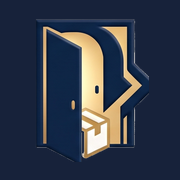
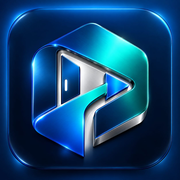
Segundo kit de marca: reemplazo completo a identidad azul/turquesa
Reemplaza el kit navy/dorado (ícono puerta+caja, sello) por el nuevo
kit azul/turquesa/plata que trajo el usuario: ícono hexagonal, lockup
"Puertayá — De la portería a tu puerta." y paleta completa (--brand,
--gold y derivados migrados en index.css, ambos modos claro/oscuro).

El lockup transparente del kit solo existe en versión clara; en oscuro
Logo compone el ícono oscuro + el nombre en texto (sugerencia del
propio LEEME del kit), en vez de mostrar el lockup claro ilegible
sobre fondo oscuro.

Ícono maskable regenerado desde el nuevo icono-dark sobre el fondo
oscuro de marca. Piezas de marketing (uniformes, 3D) guardadas en
docs/marca-v2/ como referencia, no se usan en la UI.

diff --git a/frontend/src/puertaya-brand/Logo.jsx b/frontend/src/puertaya-brand/Logo.jsx
@@ -1,30 +1,33 @@
 import React, { useEffect, useState } from "react";
 
-import selloLight from "./logos/sello/puertaya-sello-light.png";
-import selloDark from "./logos/sello/puertaya-sello-dark.png";
 import iconoLight from "./logos/icono/puertaya-icono-light.png";
 import iconoDark from "./logos/icono/puertaya-icono-dark.png";
+import lockupLight from "./logos/lockup/puertaya-lockup-light.png";
 
 const SOURCES = {
-  sello: { light: selloLight, dark: selloDark },
   icono: { light: iconoLight, dark: iconoDark },
+  // El imagotipo (símbolo + "Puertayá" + eslogan) transparente solo existe
+  // en claro. En oscuro no hay archivo equivalente (ver LEEME.md del kit),
+  // así que se compone el ícono oscuro + el nombre en texto (sugerencia del
+  // propio kit) en vez de mostrar el lockup claro ilegible sobre fondo oscuro.
+  lockup: { light: lockupLight, dark: null },
 };
 
 /**
  * Logo de Puertayá.
  *
  * Props:
- *   variant: "icono" (por defecto) | "sello"
- *     - "icono": solo la puerta con la P. Ideal para encabezados y espacios chicos.
- *     - "sello": el emblema completo con texto. Para bienvenida, facturas, membretes.
+ *   variant: "icono" (por defecto) | "lockup"
+ *     - "icono": solo el hexágono con la puerta/P. Para encabezados y espacios chicos.
+ *     - "lockup": símbolo + "Puertayá" + eslogan. Para bienvenida, web, documentos.
  *   mode: "light" | "dark" | undefined
  *     - undefined -> detecta el modo del sistema automáticamente.
- *     - si tu app ya maneja el tema, pásale aquí tu valor ("light"/"dark").
- *   size: tamaño en px (por defecto 96).
+ *     - si tu app ya maneja el tema, pásale tu valor ("light"/"dark").
+ *   size: alto en px (por defecto 96). El ancho se ajusta solo.
  *
  * Ejemplos:
- *   <Logo />                                  // ícono, modo automático
- *   <Logo variant="sello" size={160} />       // sello completo
+ *   <Logo />                                   // ícono, modo automático
+ *   <Logo variant="lockup" size={64} />        // imagotipo (claro)
  *   <Logo mode={temaOscuro ? "dark" : "light"} />
  */
 export default function Logo({ variant = "icono", size = 96, mode, alt, style }) {
@@ -40,16 +43,37 @@ export default function Logo({ variant = "icono", size = 96, mode, alt, style })
   }, [mode]);
 
   const isDark = mode ? mode === "dark" : systemDark;
+
+  if (variant === "lockup" && isDark) {
+    return (
+      <div style={{ display: "flex", alignItems: "center", gap: size * 0.16, ...style }}>
+        <img
+          src={iconoDark}
+          alt=""
+          height={size}
+          style={{ display: "block", width: "auto", objectFit: "contain" }}
+        />
+        <div style={{ display: "flex", flexDirection: "column", lineHeight: 1.15 }}>
+          <span style={{ fontSize: size * 0.32, fontWeight: 800, color: "var(--puertaya-silver)" }}>
+            Puertayá
+          </span>
+          <span style={{ fontSize: size * 0.12, fontWeight: 500, color: "var(--puertaya-teal)" }}>
+            De la portería a tu puerta.
+          </span>
+        </div>
+      </div>
+    );
+  }
+
   const set = SOURCES[variant] || SOURCES.icono;
   const src = isDark ? set.dark : set.light;
 
   return (
     <img
       src={src}
-      alt={alt || "Puertayá"}
-      width={size}
+      alt={alt || "Puertayá — De la portería a tu puerta"}
       height={size}
-      style={{ display: "block", objectFit: "contain", ...style }}
+      style={{ display: "block", width: "auto", objectFit: "contain", ...style }}
     />
   );
 }

diff --git a/frontend/src/index.css b/frontend/src/index.css
@@ -1,18 +1,19 @@
 /* Variables --puertaya-* del kit de marca (frontend/src/puertaya-brand/) —
    disponibles para quien las quiera usar directo; el resto del CSS de la
-   app sigue usando sus propios tokens --brand/--gold (arriba), ya
-   actualizados a estos mismos valores. */
+   app sigue usando sus propios tokens --brand/--gold (arriba), migrados a
+   la identidad azul/turquesa (--gold ahora vale el turquesa de acento,
+   el nombre de la variable se conserva para no reescribir todo el CSS). */
 @import "./puertaya-brand/tokens.css";
 
 :root{
-  --brand: #17223A;
-  --brand-dark: #12233F;
-  --brand-hover: #12233F;
-  --brand-bg: #eef1f6;
-  --brand-line: #c7d0de;
-  --gold: #C79A3E;
-  --gold-bg: #fbf1e2;
-  --gold-line: #f0dcb0;
+  --brand: #1E63C9;
+  --brand-dark: #13294B;
+  --brand-hover: #0C2E73;
+  --brand-bg: #e7effc;
+  --brand-line: #c3d6f2;
+  --gold: #17B6C4;
+  --gold-bg: #e3f7f9;
+  --gold-line: #bfeaee;
   --ink: #1e293b;
   --ink-soft: #64748b;
   --line: #e2e8f0;
@@ -41,14 +42,14 @@
    guardada (ver ThemeToggle) — el atributo data-theme la representa. */
 @media (prefers-color-scheme: dark){
   :root:not([data-theme="light"]){
-    --brand: #17223A;
-    --brand-dark: #8fabdb;
-    --brand-hover: #2a4270;
-    --brand-bg: #16233a;
-    --brand-line: #2a3b57;
-    --gold: #E8CE86;
-    --gold-bg: #2e2412;
-    --gold-line: #4a3a1c;
+    --brand: #1E63C9;
+    --brand-dark: #9dc2f5;
+    --brand-hover: #2f5fa8;
+    --brand-bg: #122a4d;
+    --brand-line: #24406b;
+    --gold: #5fdce6;
+    --gold-bg: #0f2e33;
+    --gold-line: #1d4e56;
     --ink: #e8ede9;
     --ink-soft: #93a39a;
     --line: #253029;
@@ -74,14 +75,14 @@
   }
 }
 :root[data-theme="dark"]{
-  --brand: #17223A;
-  --brand-dark: #8fabdb;
-  --brand-hover: #2a4270;
-  --brand-bg: #16233a;
-  --brand-line: #2a3b57;
-  --gold: #E8CE86;
-  --gold-bg: #2e2412;
-  --gold-line: #4a3a1c;
+  --brand: #1E63C9;
+  --brand-dark: #9dc2f5;
+  --brand-hover: #2f5fa8;
+  --brand-bg: #122a4d;
+  --brand-line: #24406b;
+  --gold: #5fdce6;
+  --gold-bg: #0f2e33;
+  --gold-line: #1d4e56;
   --ink: #e8ede9;
   --ink-soft: #93a39a;
   --line: #253029;

diff --git a/frontend/src/puertaya-brand/tokens.css b/frontend/src/puertaya-brand/tokens.css
@@ -1,13 +1,13 @@
-/* Puertayá — tokens de marca
-   Importa este archivo una vez (p. ej. en tu index.css o App):
-     @import "./puertaya-brand/tokens.css";
-   y usa las variables en tu CSS: color: var(--puertaya-navy); */
+/* Puertayá — tokens de marca (identidad azul / turquesa / plata)
+   Importa una vez (p. ej. en index.css):  @import "./puertaya-brand/tokens.css";
+   Valores aproximados tomados del arte; ajústalos si tienes los exactos. */
 
 :root {
-  --puertaya-navy: #17223A;        /* azul marino principal */
-  --puertaya-navy-deep: #12233F;   /* variante más profunda */
-  --puertaya-gold: #C79A3E;        /* dorado de marca */
-  --puertaya-gold-light: #E8CE86;  /* dorado claro / champagne */
-  --puertaya-cream: #F4F1EA;       /* crema (fondo claro del sello) */
-  --puertaya-charcoal: #12161F;    /* fondo oscuro */
+  --puertaya-navy: #13294B;        /* azul marino / texto del imagotipo plano */
+  --puertaya-blue: #1E63C9;        /* azul de marca */
+  --puertaya-blue-deep: #0C2E73;   /* azul profundo */
+  --puertaya-teal: #17B6C4;        /* turquesa (acento, la tilde) */
+  --puertaya-silver: #C7D0DA;      /* plata / metálico claro */
+  --puertaya-bg-dark: #0A1428;     /* fondo oscuro de la app */
+  --puertaya-cream: #F4F6F9;       /* fondo claro neutro */
 }

diff --git a/frontend/src/App.jsx b/frontend/src/App.jsx
@@ -18,14 +18,14 @@ function Protected({ children }) {
 }
 
 // Las páginas públicas (login, registro, etc.) no tienen topbar propio —
-// esto les da el mismo botón de tema y el sello de marca sin tocar cada
+// esto les da el mismo botón de tema y el logo de marca sin tocar cada
 // archivo por separado.
 function PublicPage({ children }) {
   const [theme, setTheme] = useTheme();
   return (
     <>
       <div className="floating-theme-toggle"><ThemeToggle theme={theme} setTheme={setTheme} /></div>
-      <div className="auth-brand"><Logo variant="sello" size={150} mode={theme} /></div>
+      <div className="auth-brand"><Logo variant="lockup" size={150} mode={theme} /></div>
       {children}
     </>
   );

diff --git a/frontend/index.html b/frontend/index.html
@@ -8,7 +8,7 @@
   <title>Puertaya Ipanema</title>
   <link rel="icon" href="/favicon.ico" sizes="any">
   <link rel="apple-touch-icon" href="/apple-touch-icon.png">
-  <meta name="theme-color" content="#17223A">
+  <meta name="theme-color" content="#1E63C9">
   <!-- Safari no lee el manifest para esto — sin estas etiquetas, "Agregar
        a inicio" no oculta la barra de Safari ni usa el ícono correcto. -->
   <meta name="apple-mobile-web-app-capable" content="yes">

diff --git a/frontend/vite.config.js b/frontend/vite.config.js
@@ -12,8 +12,8 @@ export default defineConfig({
         name: 'Puertaya Ipanema',
         short_name: 'Puertaya',
         description: 'Recepción, custodia y entrega de paquetes — Conjunto Ipanema',
-        theme_color: '#17223A',
-        background_color: '#F4F1EA',
+        theme_color: '#1E63C9',
+        background_color: '#F4F6F9',
         display: 'standalone',
         start_url: '/',
         scope: '/',

diff --git a/README.md b/README.md
@@ -111,14 +111,17 @@ para residentes de Conjunto Ipanema.
   sola: cuando hay una versión nueva desplegada, la próxima vez que se
   abre la app se recarga automáticamente para tomarla (sin pedir
   reinstalar ni tener que cerrarla dos veces).
-- Identidad de marca navy/dorado ("Puertayá"), con el kit de marca en
+- Identidad de marca azul/turquesa ("Puertayá"), con el kit de marca en
   `frontend/src/puertaya-brand/` (componente `Logo`, `tokens.css` con
   las variables `--puertaya-*`, y los logos en `logos/icono/` — versión
-  chica para el encabezado — y `logos/sello/` — el emblema completo,
-  usado en la pantalla de login/registro). El logo cambia de versión
-  clara/oscura junto con el resto de la app (`useTheme`, compartido con
-  `ThemeToggle`). El favicon, ícono de instalación y el `theme_color`
-  del manifest de PWA usan el mismo set de íconos (`frontend/public/`).
+  chica para el encabezado — y `logos/lockup/` — símbolo + nombre +
+  eslogan, usado en la pantalla de login/registro). El logo cambia de
+  versión clara/oscura junto con el resto de la app (`useTheme`,
+  compartido con `ThemeToggle`); como el imagotipo transparente del kit
+  solo existe en versión clara, en modo oscuro `Logo` compone el ícono
+  oscuro con el nombre en texto en vez de mostrarlo (ver comentario en
+  `Logo.jsx`). El favicon, ícono de instalación y el `theme_color` del
+  manifest de PWA usan el mismo set de íconos (`frontend/public/`).
 
 **Operador**
 - Alerta de primera entrega: **es por apartamento físico, no por
